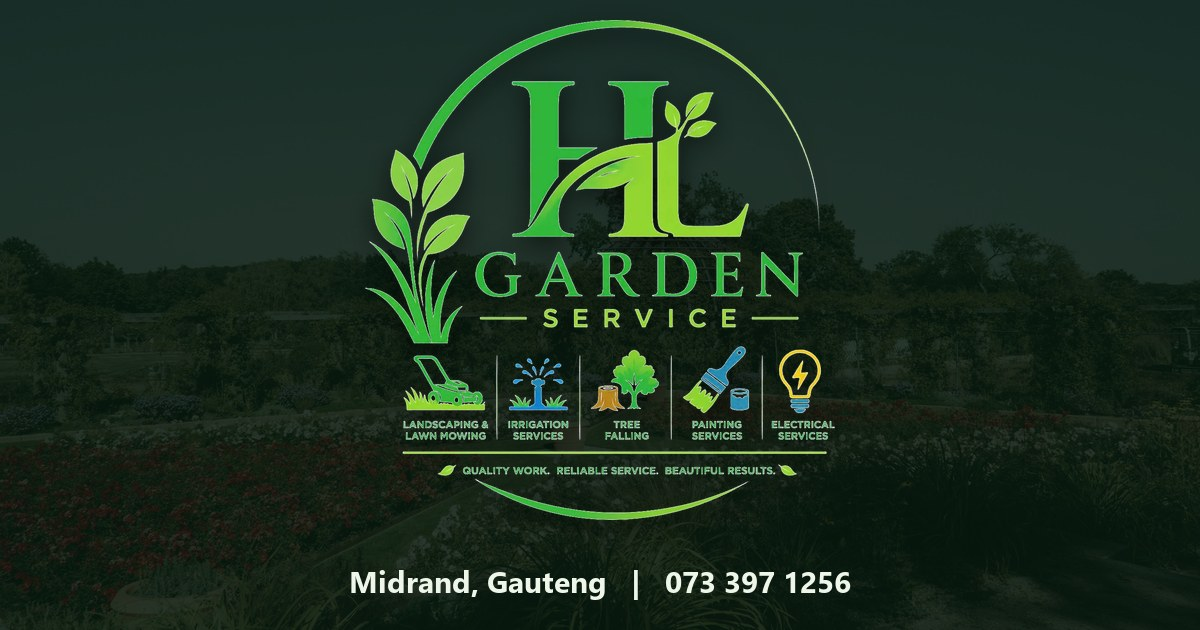
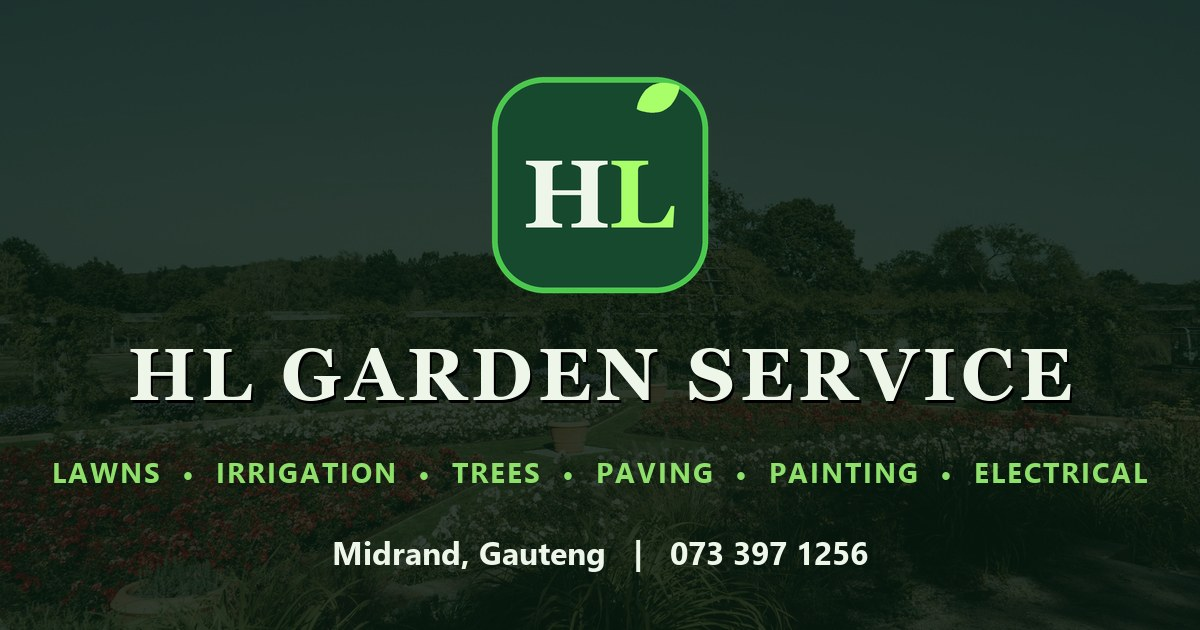
Our work section with the listing's photos (pipework excluded); HL monogram mark and six-service hero cycle

diff --git a/index.html b/index.html
@@ -18,12 +18,12 @@
 <meta property="og:image:type" content="image/jpeg">
 <meta property="og:image:width" content="1200">
 <meta property="og:image:height" content="630">
-<meta property="og:image:alt" content="HL Garden Service logo over a lawn: landscaping, irrigation, tree felling, paving, painting and electrical, Midrand">
+<meta property="og:image:alt" content="HL Garden Service mark with lawns, irrigation, trees, paving, painting and electrical, Midrand">
 <meta name="twitter:card" content="summary_large_image">
 <meta name="twitter:title" content="HL Garden Service | Landscaping and Garden Services in Midrand">
 <meta name="twitter:description" content="Landscaping, irrigation, tree felling, paving, painting and electrical work in Midrand and surrounds. Free quotes, call or WhatsApp 073 397 1256.">
 <meta name="twitter:image" content="https://darrenrosbon.github.io/hl-garden-service/og-image.jpg">
-<meta name="twitter:image:alt" content="HL Garden Service logo over a lawn: landscaping, irrigation, tree felling, paving, painting and electrical, Midrand">
+<meta name="twitter:image:alt" content="HL Garden Service mark with lawns, irrigation, trees, paving, painting and electrical, Midrand">
 <link rel="preload" as="image" imagesrcset="img/hero-1-480.webp 480w, img/hero-1-800.webp 800w, img/hero-1-1200.webp 1200w" imagesizes="(max-width: 767px) 200vw, 100vw" fetchpriority="high">
 <link rel="icon" type="image/svg+xml" href="favicon.svg">
 <link rel="icon" type="image/png" sizes="32x32" href="favicon-32.png">
@@ -31,7 +31,7 @@
 
 <link rel="preconnect" href="https://fonts.googleapis.com">
 <link rel="preconnect" href="https://fonts.gstatic.com" crossorigin>
-<link href="https://fonts.googleapis.com/css2?family=Fraunces:ital,opsz,wght@1,9..144,600&family=Sora:wght@500;700;800&family=Nunito+Sans:opsz,wght@6..12,400;6..12,600;6..12,800&display=swap" rel="stylesheet">
+<link href="https://fonts.googleapis.com/css2?family=Fraunces:ital,opsz,wght@1,9..144,600&family=Playfair+Display:wght@800;900&family=Sora:wght@500;700;800&family=Nunito+Sans:opsz,wght@6..12,400;6..12,600;6..12,800&display=swap" rel="stylesheet">
 
 <style>
 /* ---------- Tokens (swap these to re-theme) ---------- */
@@ -281,7 +281,10 @@ main > section.section.process { position: relative; isolation: isolate; overflo
 .hs { position: absolute; inset: 0; width: 100%; height: 100%; object-fit: cover; display: block; }
 .hs1 { z-index: 1; object-position: 30% 50%; }
 .hs2 { z-index: 2; clip-path: polygon(0 0, 0 0, -30% 100%, 0 100%); }
-.hs3 { z-index: 3; object-position: 50% 55%; clip-path: polygon(0 0, 0 0, -30% 100%, 0 100%); }
+.hs3 { z-index: 3; clip-path: polygon(0 0, 0 0, -30% 100%, 0 100%); }
+.hs4 { z-index: 4; clip-path: polygon(0 0, 0 0, -30% 100%, 0 100%); }
+.hs5 { z-index: 5; clip-path: polygon(0 0, 0 0, -30% 100%, 0 100%); }
+.hs6 { z-index: 6; clip-path: polygon(0 0, 0 0, -30% 100%, 0 100%); }
 .hero-shield { display: block; width: 104px; height: auto; filter: drop-shadow(0 6px 18px rgba(0, 0, 0, .55)); }
 .hero-plate { display: grid; justify-items: center; gap: 8px; margin-top: 12px; }
 .hero-plate b { background: var(--leaf); color: #0b2819; font: 800 clamp(1.1rem, 5vw, 1.7rem)/1 "Sora", sans-serif; letter-spacing: .1em; padding: 7px 10px 7px 16px; border-radius: 5px; box-shadow: 0 6px 20px rgba(0, 0, 0, .45); }
@@ -303,29 +306,35 @@ main > section.section.process { position: relative; isolation: isolate; overflo
 .brand-stack .wm-main { justify-self: center; font-size: 1.5rem; padding: 7px 11px 7px 15px; }
 .brand-stack .wm-sub { font-size: .62rem; }
 @media (max-width: 380px) { .wm-main { font-size: 1rem; letter-spacing: .1em; } .wm-sub { letter-spacing: .14em; } }
+/* Seamless loop of 6 slides, 4s each: every slide wipes in over the previous one (the first wipes back in over the last),
+   and a slide only resets while the next one already covers it. */
 @media (prefers-reduced-motion: no-preference) {
-  /* Seamless loop: each slide wipes in over the previous one in turn (the first wipes back in over the last),
-     and a slide is only reset while the next one already covers it, so there is never a cut. 4s per slide. */
-  .hs { animation: slide 12s infinite; }
-  .hs1 { animation-delay: -.8s; }
+  .hs { animation: slide 24s infinite; }
+  .words span { animation: word 24s infinite; }
+  .hs1 { animation-delay: -0.8s; }
+  .words span:nth-child(1) { animation-delay: -0.8s; }
   .hs2 { animation-delay: 3.2s; }
-  .hs3 { animation-delay: 7.2s; }
-  .words span { animation: word 12s infinite; }
-  .words span:nth-child(1) { animation-delay: -.8s; }
   .words span:nth-child(2) { animation-delay: 3.2s; }
+  .hs3 { animation-delay: 7.2s; }
   .words span:nth-child(3) { animation-delay: 7.2s; }
+  .hs4 { animation-delay: 11.2s; }
+  .words span:nth-child(4) { animation-delay: 11.2s; }
+  .hs5 { animation-delay: 15.2s; }
+  .words span:nth-child(5) { animation-delay: 15.2s; }
+  .hs6 { animation-delay: 19.2s; }
+  .words span:nth-child(6) { animation-delay: 19.2s; }
 }
 @keyframes slide {
   0% { clip-path: polygon(0 0, 0 0, -30% 100%, 0 100%); z-index: 3; }
-  6.7%, 33.2% { clip-path: polygon(0 0, 130% 0, 100% 100%, 0 100%); z-index: 3; }
-  33.3%, 40% { clip-path: polygon(0 0, 130% 0, 100% 100%, 0 100%); z-index: 2; }
-  40.1%, 100% { clip-path: polygon(0 0, 0 0, -30% 100%, 0 100%); z-index: 1; }
+  3.33%, 16.62% { clip-path: polygon(0 0, 130% 0, 100% 100%, 0 100%); z-index: 3; }
+  16.67%, 20.00% { clip-path: polygon(0 0, 130% 0, 100% 100%, 0 100%); z-index: 2; }
+  20.04%, 100% { clip-path: polygon(0 0, 0 0, -30% 100%, 0 100%); z-index: 1; }
 }
 @keyframes word {
   0% { opacity: 0; transform: translateY(22px); }
-  8%, 30% { opacity: 1; transform: none; }
-  35% { opacity: 0; transform: translateY(-22px); }
-  35.1%, 100% { opacity: 0; transform: translateY(22px); }
+  3.75%, 14.17% { opacity: 1; transform: none; }
+  17.08% { opacity: 0; transform: translateY(-22px); }
+  17.12%, 100% { opacity: 0; transform: translateY(22px); }
 }
 @media (prefers-reduced-motion: reduce) {
   .words { height: auto; width: auto; font-size: clamp(1.8rem, 8vw, 3rem); }
@@ -618,22 +627,35 @@ footer .foot-contact ul, footer .foot-jump ul { justify-content: center; justify
 .services-grid .svc-body { display: flex; flex-direction: column; }
 .services-grid .svc-cta { margin-top: auto; align-self: flex-start; padding: 13px 22px; }
 .services-grid .chips { margin-bottom: 22px; }
-.hl-logo { display: block; height: auto; filter: drop-shadow(0 0 1.5px rgba(0, 0, 0, .6)) drop-shadow(0 4px 14px rgba(0, 0, 0, .5)); }
-.hl-logo-hero { width: clamp(220px, 64vw, 330px); }
-.hl-logo-foot { width: 220px; }
+.hl-lock { display: inline-flex; align-items: center; gap: 11px; }
+.hl-ico { width: 40px; height: 40px; flex: none; display: block; filter: drop-shadow(0 2px 6px rgba(0, 0, 0, .45)); }
+.hl-word { display: grid; gap: 5px; line-height: 1; }
+.hl-word b { font: 800 1.02rem/1 "Playfair Display", Georgia, serif; letter-spacing: .08em; color: #eef6e9; white-space: nowrap; }
+.hl-word i { font: 800 .5rem/1 "Nunito Sans", sans-serif; font-style: normal; letter-spacing: .26em; color: #8fe06b; white-space: nowrap; }
+.hl-stack { flex-direction: column; gap: 14px; text-align: center; }
+.hl-stack .hl-word { justify-items: center; gap: 8px; }
+.hl-stack .hl-word i { padding-left: .26em; }
+.hl-hero .hl-ico { width: clamp(110px, 32vw, 150px); height: auto; aspect-ratio: 1; filter: drop-shadow(0 4px 14px rgba(0, 0, 0, .55)); }
+.hl-hero .hl-word b { font-size: clamp(1.3rem, 5.6vw, 1.9rem); text-shadow: 0 0 2px rgba(0, 0, 0, .9), 0 2px 10px rgba(0, 0, 0, .85), 0 0 24px rgba(0, 0, 0, .6); }
+.hl-hero .hl-word i { font-size: clamp(.62rem, 2.5vw, .82rem); text-shadow: 0 2px 8px rgba(0, 0, 0, .8); }
+.brand-stack .hl-ico { width: 84px; height: 84px; }
+.brand-stack .hl-word b { font-size: 1.5rem; }
+.brand-stack .hl-word i { font-size: .62rem; }
+@media (max-width: 380px) { .hl-word b { font-size: .92rem; } .hl-ico { width: 36px; height: 36px; } }
 </style>
 <noscript><style>.img-fade { opacity: 1; }</style></noscript>
 </head>
 <body>
-<svg width="0" height="0" style="position:absolute" aria-hidden="true"><defs><symbol id="i-bolt" viewBox="0 0 24 24"><path d="M13 2 5 13h6l-1 9 8-11h-6z" fill="currentColor"/></symbol><symbol id="i-tree" viewBox="0 0 24 24"><path d="M12 2 6 11h3l-3.5 5H11v6h2v-6h5.5L15 11h3z" fill="currentColor"/></symbol><symbol id="i-path" viewBox="0 0 24 24"><path d="M9 3h4l-1.5 5H14l2 4h-3l1 3h3l2 6H5l2-6h3l-1-3H6z" fill="currentColor"/></symbol><symbol id="i-drop" viewBox="0 0 24 24"><path d="M12 3C9 7.5 5.5 10.8 5.5 14.5a6.5 6.5 0 0 0 13 0C18.5 10.8 15 7.5 12 3z" fill="currentColor"/></symbol><symbol id="i-filter" viewBox="0 0 24 24"><path d="M4 5h16l-6 7.5V19l-4 2v-8.5z" fill="currentColor"/></symbol><symbol id="i-pipe" viewBox="0 0 24 24"><path d="M3 5h8a4 4 0 0 1 4 4v1h4a2 2 0 0 1 2 2v1h-2v-1h-4v1a6 6 0 0 1-6 6H3v-2h6a4 4 0 0 0 4-4V9a2 2 0 0 0-2-2H3z" fill="currentColor"/></symbol><symbol id="i-home" viewBox="0 0 24 24"><path d="M3 11.5 12 4l9 7.5V20h-6v-6H9v6H3z" fill="currentColor"/></symbol><symbol id="i-roller" viewBox="0 0 24 24"><path d="M5 3h11a1 1 0 0 1 1 1v1h2a1 1 0 0 1 1 1v5a1 1 0 0 1-1 1h-6v2h1v7h-3v-7h1v-2a1 1 0 0 1 1-1h7V7h-2v1a1 1 0 0 1-1 1H5a1 1 0 0 1-1-1V4a1 1 0 0 1 1-1z" fill="currentColor"/></symbol><symbol id="i-arrow-right" viewBox="0 0 256 256"><path d="M224.49,136.49l-72,72a12,12,0,0,1-17-17L187,140H40a12,12,0,0,1,0-24H187L135.51,64.48a12,12,0,0,1,17-17l72,72A12,12,0,0,1,224.49,136.49Z"/></symbol><symbol id="i-arrow-up-right" viewBox="0 0 256 256"><path d="M204,64V168a12,12,0,0,1-24,0V93L72.49,200.49a12,12,0,0,1-17-17L163,76H88a12,12,0,0,1,0-24H192A12,12,0,0,1,204,64Z"/></symbol><symbol id="i-check" viewBox="0 0 256 256"><path d="M232.49,80.49l-128,128a12,12,0,0,1-17,0l-56-56a12,12,0,1,1,17-17L96,183,215.51,63.51a12,12,0,0,1,17,17Z"/></symbol><symbol id="i-clipboard-text" viewBox="0 0 256 256"><path d="M172,164a12,12,0,0,1-12,12H96a12,12,0,0,1,0-24h64A12,12,0,0,1,172,164Zm-12-52H96a12,12,0,0,0,0,24h64a12,12,0,0,0,0-24Zm60-64V216a20,20,0,0,1-20,20H56a20,20,0,0,1-20-20V48A20,20,0,0,1,56,28H90.53a51.88,51.88,0,0,1,74.94,0H200A20,20,0,0,1,220,48ZM100.29,60h55.42a28,28,0,0,0-55.42,0ZM196,52H178.59A52.13,52.13,0,0,1,180,64v8a12,12,0,0,1-12,12H88A12,12,0,0,1,76,72V64a52.13,52.13,0,0,1,1.41-12H60V212H196Z"/></symbol><symbol id="i-clock" viewBox="0 0 256 256"><path d="M128,20A108,108,0,1,0,236,128,108.12,108.12,0,0,0,128,20Zm0,192a84,84,0,1,1,84-84A84.09,84.09,0,0,1,128,212Zm68-84a12,12,0,0,1-12,12H128a12,12,0,0,1-12-12V72a12,12,0,0,1,24,0v44h44A12,12,0,0,1,196,128Z"/></symbol><symbol id="i-list" viewBox="0 0 256 256"><path d="M228,128a12,12,0,0,1-12,12H40a12,12,0,0,1,0-24H216A12,12,0,0,1,228,128ZM40,76H216a12,12,0,0,0,0-24H40a12,12,0,0,0,0,24ZM216,180H40a12,12,0,0,0,0,24H216a12,12,0,0,0,0-24Z"/></symbol><symbol id="i-map-pin" viewBox="0 0 256 256"><path d="M128,60a44,44,0,1,0,44,44A44.05,44.05,0,0,0,128,60Zm0,64a20,20,0,1,1,20-20A20,20,0,0,1,128,124Zm0-112a92.1,92.1,0,0,0-92,92c0,77.36,81.64,135.4,85.12,137.83a12,12,0,0,0,13.76,0,259,259,0,0,0,42.18-39C205.15,170.57,220,136.37,220,104A92.1,92.1,0,0,0,128,12Zm31.3,174.71A249.35,249.35,0,0,1,128,216.89a249.35,249.35,0,0,1-31.3-30.18C80,167.37,60,137.31,60,104a68,68,0,0,1,136,0C196,137.31,176,167.37,159.3,186.71Z"/></symbol><symbol id="i-phone" viewBox="0 0 256 256"><path d="M224,154.8l-47.09-21.11-.18-.08a19.94,19.94,0,0,0-19,1.75,13.08,13.08,0,0,0-1.12.84l-22.31,19c-13-7.05-26.43-20.37-33.49-33.21l19.06-22.66a11.76,11.76,0,0,0,.85-1.15,20,20,0,0,0,1.66-18.83,1.42,1.42,0,0,1-.08-.18L101.2,32A20.06,20.06,0,0,0,80.42,20.15,60.27,60.27,0,0,0,28,80c0,81.61,66.39,148,148,148a60.27,60.27,0,0,0,59.85-52.42A20.06,20.06,0,0,0,224,154.8ZM176,204A124.15,124.15,0,0,1,52,80,36.29,36.29,0,0,1,80.48,44.46l18.82,42L80.14,109.28a12,12,0,0,0-.86,1.16A20,20,0,0,0,78,130.08c9.42,19.28,28.83,38.56,48.31,48A20,20,0,0,0,146,176.63a11.63,11.63,0,0,0,1.11-.85l22.43-19.07,42,18.81A36.29,36.29,0,0,1,176,204Z"/></symbol><symbol id="i-plant" viewBox="0 0 256 256"><path d="M255.62,51.65a12,12,0,0,0-11.27-11.27c-53.27-3.13-96.2,13.36-114.84,44.14-12.14,20-12.56,44.17-1.46,67.3a75.14,75.14,0,0,0-12.28,23l-12.66-12.66c7.19-16.77,6.43-34.11-2.4-48.69C86.73,90.36,54.89,78,15.55,80.27A12,12,0,0,0,4.28,91.55C2,130.89,14.36,162.73,37.45,176.71a49.76,49.76,0,0,0,26,7.27,57.54,57.54,0,0,0,22.7-4.87L112,205v23a12,12,0,0,0,24,0V198.51a51.63,51.63,0,0,1,9.49-29.95,76.82,76.82,0,0,0,32.1,7.39,64.91,64.91,0,0,0,33.89-9.46C242.25,147.85,258.76,104.92,255.62,51.65ZM49.88,156.18c-13.19-8-21.18-27.46-21.83-52.13,24.67.65,44.14,8.64,52.13,21.83a26,26,0,0,1,3.63,17L72.48,131.51a12,12,0,0,0-17,17l11.34,11.34A26.27,26.27,0,0,1,49.88,156.18ZM199.05,146c-10.66,6.45-23,7.67-35.81,3.76l37.25-37.24a12,12,0,0,0-17-17l-37.25,37.24C142.37,120,143.59,107.61,150,97c12.7-21,42.65-33,81.32-33H232C232.14,103,220.14,133.18,199.05,146Z"/></symbol><symbol id="i-whatsapp-logo" viewBox="0 0 256 256"><path d="M187.3,159.06A36.09,36.09,0,0,1,152,188a84.09,84.09,0,0,1-84-84A36.09,36.09,0,0,1,96.94,68.7,12,12,0,0,1,110,75.1l11.48,23a12,12,0,0,1-.75,12l-8.52,12.78a44.56,44.56,0,0,0,20.91,20.91l12.78-8.52a12,12,0,0,1,12-.75l23,11.48A12,12,0,0,1,187.3,159.06ZM236,128A108,108,0,0,1,78.77,224.15L46.34,235A20,20,0,0,1,21,209.66l10.81-32.43A108,108,0,1,1,236,128Zm-24,0A84,84,0,1,0,55.27,170.06a12,12,0,0,1,1,9.81l-9.93,29.79,29.79-9.93a12.1,12.1,0,0,1,3.8-.62,12,12,0,0,1,6,1.62A84,84,0,0,0,212,128Z"/></symbol><symbol id="i-x" viewBox="0 0 256 256"><path d="M208.49,191.51a12,12,0,0,1-17,17L128,145,64.49,208.49a12,12,0,0,1-17-17L111,128,47.51,64.49a12,12,0,0,1,17-17L128,111l63.51-63.52a12,12,0,0,1,17,17L145,128Z"/></symbol><symbol id="i-hand-tap" viewBox="0 0 256 256"><path d="M228,156v36c0,13.85-1.63,26.52-4.58,35.68a12,12,0,1,1-22.84-7.36c2.14-6.65,3.42-17.24,3.42-28.32V156a8,8,0,0,0-16,0v4a12,12,0,0,1-24,0V140a8,8,0,0,0-16,0v12a12,12,0,0,1-24,0V84a8,8,0,0,0-16,0V192a12,12,0,0,1-22.18,6.34l-18.68-30-.21-.34A8,8,0,0,0,53,175.92L78.27,217.8a12,12,0,0,1-20.56,12.39l-25.31-42-.12-.2A32,32,0,0,1,84,150.83V84a32,32,0,0,1,64,0v25a32,32,0,0,1,36.78,17A32,32,0,0,1,228,156ZM56,96A12,12,0,0,0,68,84a48,48,0,0,1,96,0,12,12,0,0,0,24,0A72,72,0,0,0,44,84,12,12,0,0,0,56,96Z"/></symbol><symbol id="i-tb-phone" viewBox="0 0 24 24"><path d="M5 4h4l2 5l-2.5 1.5a11 11 0 0 0 5 5l1.5 -2.5l5 2v4a2 2 0 0 1 -2 2a16 16 0 0 1 -15 -15a2 2 0 0 1 2 -2"/></symbol><symbol id="i-tb-wa" viewBox="0 0 24 24"><path d="M3 21l1.65 -3.8a9 9 0 1 1 3.4 2.9l-5.05 .9"/><path d="M9 10a.5 .5 0 0 0 1 0v-1a.5 .5 0 0 0 -1 0v1a5 5 0 0 0 5 5h1a.5 .5 0 0 0 0 -1h-1a.5 .5 0 0 0 0 1"/></symbol></defs></svg>
+<svg width="0" height="0" style="position:absolute" aria-hidden="true"><defs><symbol id="hl-leaf" viewBox="0 0 30 18"><path d="M1 17C1 7 9 1 29 1C29 13 19 18 1 17Z" fill="currentColor"/><path d="M3 15C11 11 19 7 27 2.5" stroke="#17492f" stroke-width="1.3" fill="none" stroke-linecap="round"/></symbol><symbol id="hl-mark" viewBox="0 0 200 200"><rect x="6" y="6" width="188" height="188" rx="46" fill="#17492f"/><rect x="6" y="6" width="188" height="188" rx="46" fill="none" stroke="#4cc84e" stroke-width="5"/><text x="82" y="140" text-anchor="middle" font-family="Playfair Display, Georgia, serif" font-weight="900" font-size="104" fill="#eef6e9">H</text><text x="138" y="140" text-anchor="middle" font-family="Playfair Display, Georgia, serif" font-weight="900" font-size="104" fill="#a8ff6a">L</text><g color="#a8ff6a"><use href="#hl-leaf" x="138" y="22" width="40" height="23" transform="rotate(-28 158 34)"/></g></symbol><symbol id="i-bolt" viewBox="0 0 24 24"><path d="M13 2 5 13h6l-1 9 8-11h-6z" fill="currentColor"/></symbol><symbol id="i-tree" viewBox="0 0 24 24"><path d="M12 2 6 11h3l-3.5 5H11v6h2v-6h5.5L15 11h3z" fill="currentColor"/></symbol><symbol id="i-path" viewBox="0 0 24 24"><path d="M9 3h4l-1.5 5H14l2 4h-3l1 3h3l2 6H5l2-6h3l-1-3H6z" fill="currentColor"/></symbol><symbol id="i-drop" viewBox="0 0 24 24"><path d="M12 3C9 7.5 5.5 10.8 5.5 14.5a6.5 6.5 0 0 0 13 0C18.5 10.8 15 7.5 12 3z" fill="currentColor"/></symbol><symbol id="i-filter" viewBox="0 0 24 24"><path d="M4 5h16l-6 7.5V19l-4 2v-8.5z" fill="currentColor"/></symbol><symbol id="i-pipe" viewBox="0 0 24 24"><path d="M3 5h8a4 4 0 0 1 4 4v1h4a2 2 0 0 1 2 2v1h-2v-1h-4v1a6 6 0 0 1-6 6H3v-2h6a4 4 0 0 0 4-4V9a2 2 0 0 0-2-2H3z" fill="currentColor"/></symbol><symbol id="i-home" viewBox="0 0 24 24"><path d="M3 11.5 12 4l9 7.5V20h-6v-6H9v6H3z" fill="currentColor"/></symbol><symbol id="i-roller" viewBox="0 0 24 24"><path d="M5 3h11a1 1 0 0 1 1 1v1h2a1 1 0 0 1 1 1v5a1 1 0 0 1-1 1h-6v2h1v7h-3v-7h1v-2a1 1 0 0 1 1-1h7V7h-2v1a1 1 0 0 1-1 1H5a1 1 0 0 1-1-1V4a1 1 0 0 1 1-1z" fill="currentColor"/></symbol><symbol id="i-arrow-right" viewBox="0 0 256 256"><path d="M224.49,136.49l-72,72a12,12,0,0,1-17-17L187,140H40a12,12,0,0,1,0-24H187L135.51,64.48a12,12,0,0,1,17-17l72,72A12,12,0,0,1,224.49,136.49Z"/></symbol><symbol id="i-arrow-up-right" viewBox="0 0 256 256"><path d="M204,64V168a12,12,0,0,1-24,0V93L72.49,200.49a12,12,0,0,1-17-17L163,76H88a12,12,0,0,1,0-24H192A12,12,0,0,1,204,64Z"/></symbol><symbol id="i-check" viewBox="0 0 256 256"><path d="M232.49,80.49l-128,128a12,12,0,0,1-17,0l-56-56a12,12,0,1,1,17-17L96,183,215.51,63.51a12,12,0,0,1,17,17Z"/></symbol><symbol id="i-clipboard-text" viewBox="0 0 256 256"><path d="M172,164a12,12,0,0,1-12,12H96a12,12,0,0,1,0-24h64A12,12,0,0,1,172,164Zm-12-52H96a12,12,0,0,0,0,24h64a12,12,0,0,0,0-24Zm60-64V216a20,20,0,0,1-20,20H56a20,20,0,0,1-20-20V48A20,20,0,0,1,56,28H90.53a51.88,51.88,0,0,1,74.94,0H200A20,20,0,0,1,220,48ZM100.29,60h55.42a28,28,0,0,0-55.42,0ZM196,52H178.59A52.13,52.13,0,0,1,180,64v8a12,12,0,0,1-12,12H88A12,12,0,0,1,76,72V64a52.13,52.13,0,0,1,1.41-12H60V212H196Z"/></symbol><symbol id="i-clock" viewBox="0 0 256 256"><path d="M128,20A108,108,0,1,0,236,128,108.12,108.12,0,0,0,128,20Zm0,192a84,84,0,1,1,84-84A84.09,84.09,0,0,1,128,212Zm68-84a12,12,0,0,1-12,12H128a12,12,0,0,1-12-12V72a12,12,0,0,1,24,0v44h44A12,12,0,0,1,196,128Z"/></symbol><symbol id="i-list" viewBox="0 0 256 256"><path d="M228,128a12,12,0,0,1-12,12H40a12,12,0,0,1,0-24H216A12,12,0,0,1,228,128ZM40,76H216a12,12,0,0,0,0-24H40a12,12,0,0,0,0,24ZM216,180H40a12,12,0,0,0,0,24H216a12,12,0,0,0,0-24Z"/></symbol><symbol id="i-map-pin" viewBox="0 0 256 256"><path d="M128,60a44,44,0,1,0,44,44A44.05,44.05,0,0,0,128,60Zm0,64a20,20,0,1,1,20-20A20,20,0,0,1,128,124Zm0-112a92.1,92.1,0,0,0-92,92c0,77.36,81.64,135.4,85.12,137.83a12,12,0,0,0,13.76,0,259,259,0,0,0,42.18-39C205.15,170.57,220,136.37,220,104A92.1,92.1,0,0,0,128,12Zm31.3,174.71A249.35,249.35,0,0,1,128,216.89a249.35,249.35,0,0,1-31.3-30.18C80,167.37,60,137.31,60,104a68,68,0,0,1,136,0C196,137.31,176,167.37,159.3,186.71Z"/></symbol><symbol id="i-phone" viewBox="0 0 256 256"><path d="M224,154.8l-47.09-21.11-.18-.08a19.94,19.94,0,0,0-19,1.75,13.08,13.08,0,0,0-1.12.84l-22.31,19c-13-7.05-26.43-20.37-33.49-33.21l19.06-22.66a11.76,11.76,0,0,0,.85-1.15,20,20,0,0,0,1.66-18.83,1.42,1.42,0,0,1-.08-.18L101.2,32A20.06,20.06,0,0,0,80.42,20.15,60.27,60.27,0,0,0,28,80c0,81.61,66.39,148,148,148a60.27,60.27,0,0,0,59.85-52.42A20.06,20.06,0,0,0,224,154.8ZM176,204A124.15,124.15,0,0,1,52,80,36.29,36.29,0,0,1,80.48,44.46l18.82,42L80.14,109.28a12,12,0,0,0-.86,1.16A20,20,0,0,0,78,130.08c9.42,19.28,28.83,38.56,48.31,48A20,20,0,0,0,146,176.63a11.63,11.63,0,0,0,1.11-.85l22.43-19.07,42,18.81A36.29,36.29,0,0,1,176,204Z"/></symbol><symbol id="i-plant" viewBox="0 0 256 256"><path d="M255.62,51.65a12,12,0,0,0-11.27-11.27c-53.27-3.13-96.2,13.36-114.84,44.14-12.14,20-12.56,44.17-1.46,67.3a75.14,75.14,0,0,0-12.28,23l-12.66-12.66c7.19-16.77,6.43-34.11-2.4-48.69C86.73,90.36,54.89,78,15.55,80.27A12,12,0,0,0,4.28,91.55C2,130.89,14.36,162.73,37.45,176.71a49.76,49.76,0,0,0,26,7.27,57.54,57.54,0,0,0,22.7-4.87L112,205v23a12,12,0,0,0,24,0V198.51a51.63,51.63,0,0,1,9.49-29.95,76.82,76.82,0,0,0,32.1,7.39,64.91,64.91,0,0,0,33.89-9.46C242.25,147.85,258.76,104.92,255.62,51.65ZM49.88,156.18c-13.19-8-21.18-27.46-21.83-52.13,24.67.65,44.14,8.64,52.13,21.83a26,26,0,0,1,3.63,17L72.48,131.51a12,12,0,0,0-17,17l11.34,11.34A26.27,26.27,0,0,1,49.88,156.18ZM199.05,146c-10.66,6.45-23,7.67-35.81,3.76l37.25-37.24a12,12,0,0,0-17-17l-37.25,37.24C142.37,120,143.59,107.61,150,97c12.7-21,42.65-33,81.32-33H232C232.14,103,220.14,133.18,199.05,146Z"/></symbol><symbol id="i-whatsapp-logo" viewBox="0 0 256 256"><path d="M187.3,159.06A36.09,36.09,0,0,1,152,188a84.09,84.09,0,0,1-84-84A36.09,36.09,0,0,1,96.94,68.7,12,12,0,0,1,110,75.1l11.48,23a12,12,0,0,1-.75,12l-8.52,12.78a44.56,44.56,0,0,0,20.91,20.91l12.78-8.52a12,12,0,0,1,12-.75l23,11.48A12,12,0,0,1,187.3,159.06ZM236,128A108,108,0,0,1,78.77,224.15L46.34,235A20,20,0,0,1,21,209.66l10.81-32.43A108,108,0,1,1,236,128Zm-24,0A84,84,0,1,0,55.27,170.06a12,12,0,0,1,1,9.81l-9.93,29.79,29.79-9.93a12.1,12.1,0,0,1,3.8-.62,12,12,0,0,1,6,1.62A84,84,0,0,0,212,128Z"/></symbol><symbol id="i-x" viewBox="0 0 256 256"><path d="M208.49,191.51a12,12,0,0,1-17,17L128,145,64.49,208.49a12,12,0,0,1-17-17L111,128,47.51,64.49a12,12,0,0,1,17-17L128,111l63.51-63.52a12,12,0,0,1,17,17L145,128Z"/></symbol><symbol id="i-hand-tap" viewBox="0 0 256 256"><path d="M228,156v36c0,13.85-1.63,26.52-4.58,35.68a12,12,0,1,1-22.84-7.36c2.14-6.65,3.42-17.24,3.42-28.32V156a8,8,0,0,0-16,0v4a12,12,0,0,1-24,0V140a8,8,0,0,0-16,0v12a12,12,0,0,1-24,0V84a8,8,0,0,0-16,0V192a12,12,0,0,1-22.18,6.34l-18.68-30-.21-.34A8,8,0,0,0,53,175.92L78.27,217.8a12,12,0,0,1-20.56,12.39l-25.31-42-.12-.2A32,32,0,0,1,84,150.83V84a32,32,0,0,1,64,0v25a32,32,0,0,1,36.78,17A32,32,0,0,1,228,156ZM56,96A12,12,0,0,0,68,84a48,48,0,0,1,96,0,12,12,0,0,0,24,0A72,72,0,0,0,44,84,12,12,0,0,0,56,96Z"/></symbol><symbol id="i-tb-phone" viewBox="0 0 24 24"><path d="M5 4h4l2 5l-2.5 1.5a11 11 0 0 0 5 5l1.5 -2.5l5 2v4a2 2 0 0 1 -2 2a16 16 0 0 1 -15 -15a2 2 0 0 1 2 -2"/></symbol><symbol id="i-tb-wa" viewBox="0 0 24 24"><path d="M3 21l1.65 -3.8a9 9 0 1 1 3.4 2.9l-5.05 .9"/><path d="M9 10a.5 .5 0 0 0 1 0v-1a.5 .5 0 0 0 -1 0v1a5 5 0 0 0 5 5h1a.5 .5 0 0 0 0 -1h-1a.5 .5 0 0 0 0 1"/></symbol></defs></svg>
 
 <header class="site-head">
   <div class="wrap head-in">
     <a class="brand" href="#top" aria-label="HL Garden Service, home">
-      <span class="wm"><span class="wm-main wm-long">HL GARDEN SERVICE</span><span class="wm-sub">Lawn care &amp; garden service</span></span>
+      <span class="hl-lock"><svg class="hl-ico" viewBox="0 0 200 200" aria-hidden="true"><use href="#hl-mark"/></svg><span class="hl-word"><b>HL GARDEN SERVICE</b><i>LAWN CARE &amp; GARDEN SERVICE</i></span></span>
     </a>
     <nav class="nav-desktop" aria-label="Main">
       <a href="#services">Services</a>
+      <a href="#work">Our work</a>
       <a href="#why">Why us</a>
       <a href="#areas">Areas</a>
       <a href="#quote">Quote</a>
@@ -647,6 +669,7 @@ footer .foot-contact ul, footer .foot-jump ul { justify-content: center; justify
 
 <nav class="nav-mobile" id="menu" aria-label="Mobile">
   <a class="link" href="#services">Services <svg class="ico" aria-hidden="true"><use href="#i-arrow-right"/></svg></a>
+  <a class="link" href="#work">Our work <svg class="ico" aria-hidden="true"><use href="#i-arrow-right"/></svg></a>
   <a class="link" href="#why">Why us <svg class="ico" aria-hidden="true"><use href="#i-arrow-right"/></svg></a>
   <a class="link" href="#areas">Areas and hours <svg class="ico" aria-hidden="true"><use href="#i-arrow-right"/></svg></a>
   <a class="link" href="#quote">Quote <svg class="ico" aria-hidden="true"><use href="#i-arrow-right"/></svg></a>
@@ -658,13 +681,16 @@ footer .foot-contact ul, footer .foot-jump ul { justify-content: center; justify
   <!-- Hero: image first, text overlaid -->
[1 lines of base64/hex data omitted]
     <div class="hero-slides" aria-hidden="true">
-      <img class="hs hs1" src="img/hero-1-800.webp" srcset="img/hero-1-480.webp 480w, img/hero-1-800.webp 800w, img/hero-1-1200.webp 1200w, img/hero-1-1600.webp 1600w" sizes="(max-width: 767px) 200vw, 100vw" width="1600" height="1067" alt="" fetchpriority="high" decoding="async">
-      <img class="hs hs2" src="img/hero-2-800.webp" srcset="img/hero-2-480.webp 480w, img/hero-2-800.webp 800w, img/hero-2-1200.webp 1200w, img/hero-2-1600.webp 1600w" sizes="(max-width: 767px) 200vw, 100vw" width="1600" height="972" alt="" loading="lazy" decoding="async">
-      <img class="hs hs3" src="img/hero-3-800.webp" srcset="img/hero-3-480.webp 480w, img/hero-3-800.webp 800w, img/hero-3-1200.webp 1200w, img/hero-3-1600.webp 1600w" sizes="(max-width: 767px) 200vw, 100vw" width="1600" height="1200" alt="" loading="lazy" decoding="async">
+      <img class="hs hs1" src="img/hero-1-800.webp" srcset="img/hero-1-480.webp 480w, img/hero-1-800.webp 800w, img/hero-1-1200.webp 1200w, img/hero-1-1600.webp 1600w" sizes="(max-width: 767px) 200vw, 100vw" width="1600" height="1067" alt="" style="object-position: 50% 55%" fetchpriority="high" decoding="async">
+      <img class="hs hs2" src="img/hero-2-800.webp" srcset="img/hero-2-480.webp 480w, img/hero-2-800.webp 800w, img/hero-2-1200.webp 1200w, img/hero-2-1600.webp 1600w" sizes="(max-width: 767px) 200vw, 100vw" width="1600" height="1064" alt="" style="object-position: 50% 50%" loading="lazy" decoding="async">
+      <img class="hs hs3" src="img/hero-3-800.webp" srcset="img/hero-3-480.webp 480w, img/hero-3-800.webp 800w, img/hero-3-1200.webp 1200w, img/hero-3-1600.webp 1600w" sizes="(max-width: 767px) 200vw, 100vw" width="1600" height="972" alt="" style="object-position: 50% 50%" loading="lazy" decoding="async">
+      <img class="hs hs4" src="img/hero-4-800.webp" srcset="img/hero-4-480.webp 480w, img/hero-4-800.webp 800w, img/hero-4-1200.webp 1200w, img/hero-4-1600.webp 1600w" sizes="100vw" width="1600" height="2400" alt="" style="object-position: 50% 45%" loading="lazy" decoding="async">
+      <img class="hs hs5" src="img/hero-5-800.webp" srcset="img/hero-5-480.webp 480w, img/hero-5-800.webp 800w, img/hero-5-1200.webp 1200w, img/hero-5-1600.webp 1600w" sizes="(max-width: 767px) 200vw, 100vw" width="1600" height="1067" alt="" style="object-position: 50% 50%" loading="lazy" decoding="async">
+      <img class="hs hs6" src="img/hero-6-800.webp" srcset="img/hero-6-480.webp 480w, img/hero-6-800.webp 800w, img/hero-6-1200.webp 1200w, img/hero-6-1600.webp 1600w" sizes="(max-width: 767px) 200vw, 100vw" width="1600" height="1067" alt="" style="object-position: 50% 45%" loading="lazy" decoding="async">
     </div>
     <div class="wrap hero-in">
-      <img class="hl-logo hl-logo-hero" src="img/logo-640.webp" srcset="img/logo-640.webp 640w, img/logo-1000.webp 1000w" sizes="(max-width: 767px) 66vw, 340px" width="1000" height="1063" alt="" decoding="async">
-      <h1 id="hero-title"><span class="sr-only">HL Garden Service: landscaping, irrigation, tree felling, paving, painting and electrical work in Midrand</span><span class="words" aria-hidden="true"><span>Lawns.</span><span>Trees.</span><span>Gardens.</span></span></h1>
+      <div class="hl-lock hl-stack hl-hero" aria-hidden="true"><svg class="hl-ico" viewBox="0 0 200 200" aria-hidden="true"><use href="#hl-mark"/></svg><span class="hl-word"><b>HL GARDEN SERVICE</b><i>LAWN CARE &amp; GARDEN SERVICE</i></span></div>
+      <h1 id="hero-title"><span class="sr-only">HL Garden Service: lawns, irrigation, tree felling, paving, painting and electrical work in Midrand</span><span class="words" aria-hidden="true"><span>Lawns.</span><span>Irrigation.</span><span>Trees.</span><span>Paving.</span><span>Painting.</span><span>Electrical.</span></span></h1>
       <p>Landscaping, irrigation, tree felling, paving, painting and electrical work for homes and businesses. Call or WhatsApp for a free quote.</p>
       <div class="hero-cta">
         <a class="btn btn-light" href="#quote"><svg class="ico" aria-hidden="true"><use href="#i-whatsapp-logo"/></svg>Get a free quote</a>
@@ -754,6 +780,20 @@ footer .foot-contact ul, footer .foot-jump ul { justify-content: center; justify
           </div>
         </article>
 
+      </div>
+    </div>
+  </section>
+
+  <!-- Our work -->
+  <section class="section" id="work">
+    <div class="wrap">
+      <h2 class="reveal">Our work</h2>
+      <p class="lead reveal">A few recent jobs.</p>
+      <div class="gallery work-gallery">
+        <figure class="reveal"><img class="img-fade" decoding="async" loading="lazy" src="img/work-1-480.webp" srcset="img/work-1-480.webp 480w, img/work-1-lg.webp 720w" sizes="(min-width: 1024px) 25vw, 50vw" width="480" height="647" alt="Neat green lawn beside a pool with brick paving"><figcaption class="tag">Lawns</figcaption></figure>
+        <figure class="reveal"><img class="img-fade" decoding="async" loading="lazy" src="img/work-2-480.webp" srcset="img/work-2-480.webp 480w, img/work-2-lg.webp 720w" sizes="(min-width: 1024px) 25vw, 50vw" width="480" height="640" alt="Worker preparing a house wall for painting on a balcony"><figcaption class="tag">Painting</figcaption></figure>
+        <figure class="reveal"><img class="img-fade" decoding="async" loading="lazy" src="img/work-3-480.webp" srcset="img/work-3-480.webp 480w" sizes="(min-width: 1024px) 25vw, 50vw" width="468" height="1040" alt="Long strip of fresh lawn beside a brick edge and a modern house"><figcaption class="tag">Lawns</figcaption></figure>
+        <figure class="reveal"><img class="img-fade" decoding="async" loading="lazy" src="img/work-4-480.webp" srcset="img/work-4-480.webp 480w, img/work-4-lg.webp 720w" sizes="(min-width: 1024px) 25vw, 50vw" width="480" height="319" alt="Swimming pool being worked on beside a modern house"><figcaption class="tag">Painting</figcaption></figure>
       </div>
     </div>
   </section>
@@ -916,7 +956,7 @@ footer .foot-contact ul, footer .foot-jump ul { justify-content: center; justify
     <div class="foot-grid">
       <div class="foot-brand">
         <a class="brand brand-stack" href="#top">
-      <img class="hl-logo hl-logo-foot" src="img/logo-640.webp" width="1000" height="1063" alt="HL Garden Service" decoding="async" loading="lazy">
+      <span class="hl-lock hl-stack"><svg class="hl-ico" viewBox="0 0 200 200" aria-hidden="true"><use href="#hl-mark"/></svg><span class="hl-word"><b>HL GARDEN SERVICE</b><i>LAWN CARE &amp; GARDEN SERVICE</i></span></span>
     </a>
         <p class="foot-blurb" style="margin-top:10px;max-width:34ch;font-size:.95rem">Landscaping, irrigation, tree felling, paving, painting and electrical work in Midrand and surrounds.</p>
       </div>
@@ -932,6 +972,7 @@ footer .foot-contact ul, footer .foot-jump ul { justify-content: center; justify
         <h3>Jump to</h3>
         <ul>
           <li><a href="#services">Services</a></li>
+          <li><a href="#work">Our work</a></li>
           <li><a href="#reviews">Reviews</a></li>
           <li><a href="#why">Why us</a></li>
           <li><a href="#areas">Areas</a></li>

diff --git a/README.md b/README.md
@@ -2,6 +2,7 @@
 
 One page, mobile first preview site. Static HTML, no build step. Open `index.html` in a browser.
 
-Services come from the owner's Google post and the logo on the listing: irrigation install and service, landscaping and lawn mowing, tree felling, paving, painting, electrical. The logo is the listing logo, made transparent and brightened for the dark site. Photos: one from the listing (lawn with pool and paving), the rest Pexels stock. No people appear in the images. The listing's pipework photos and the photos with workers are deliberately not used.
+Services come from the owner's Google post and the logo on the listing: irrigation install and service, landscaping and lawn mowing, tree felling, paving, painting, electrical. The mark is a custom HL monogram inspired by the listing logo (their own logo is too detailed for the hero and small sizes). The hero cycles through six services, one image each. Photos: one from the listing (lawn with pool and paving), the rest Pexels stock. No people appear in the images. The listing's two pipework photos are deliberately not used.
 Listing: Lawn care service, 073 397 1256, 5.0 stars from 2 Google reviews (both quoted, no names). No address, website or clear opening hours. Midrand area is a guess from the map pin.
 Link preview: Open Graph and Twitter tags with a 1200x630 share image (og-image.jpg).
+"Our work" shows four listing photos (two lawns, two painting); the tags are my reading of the photos and should be confirmed with the client.
